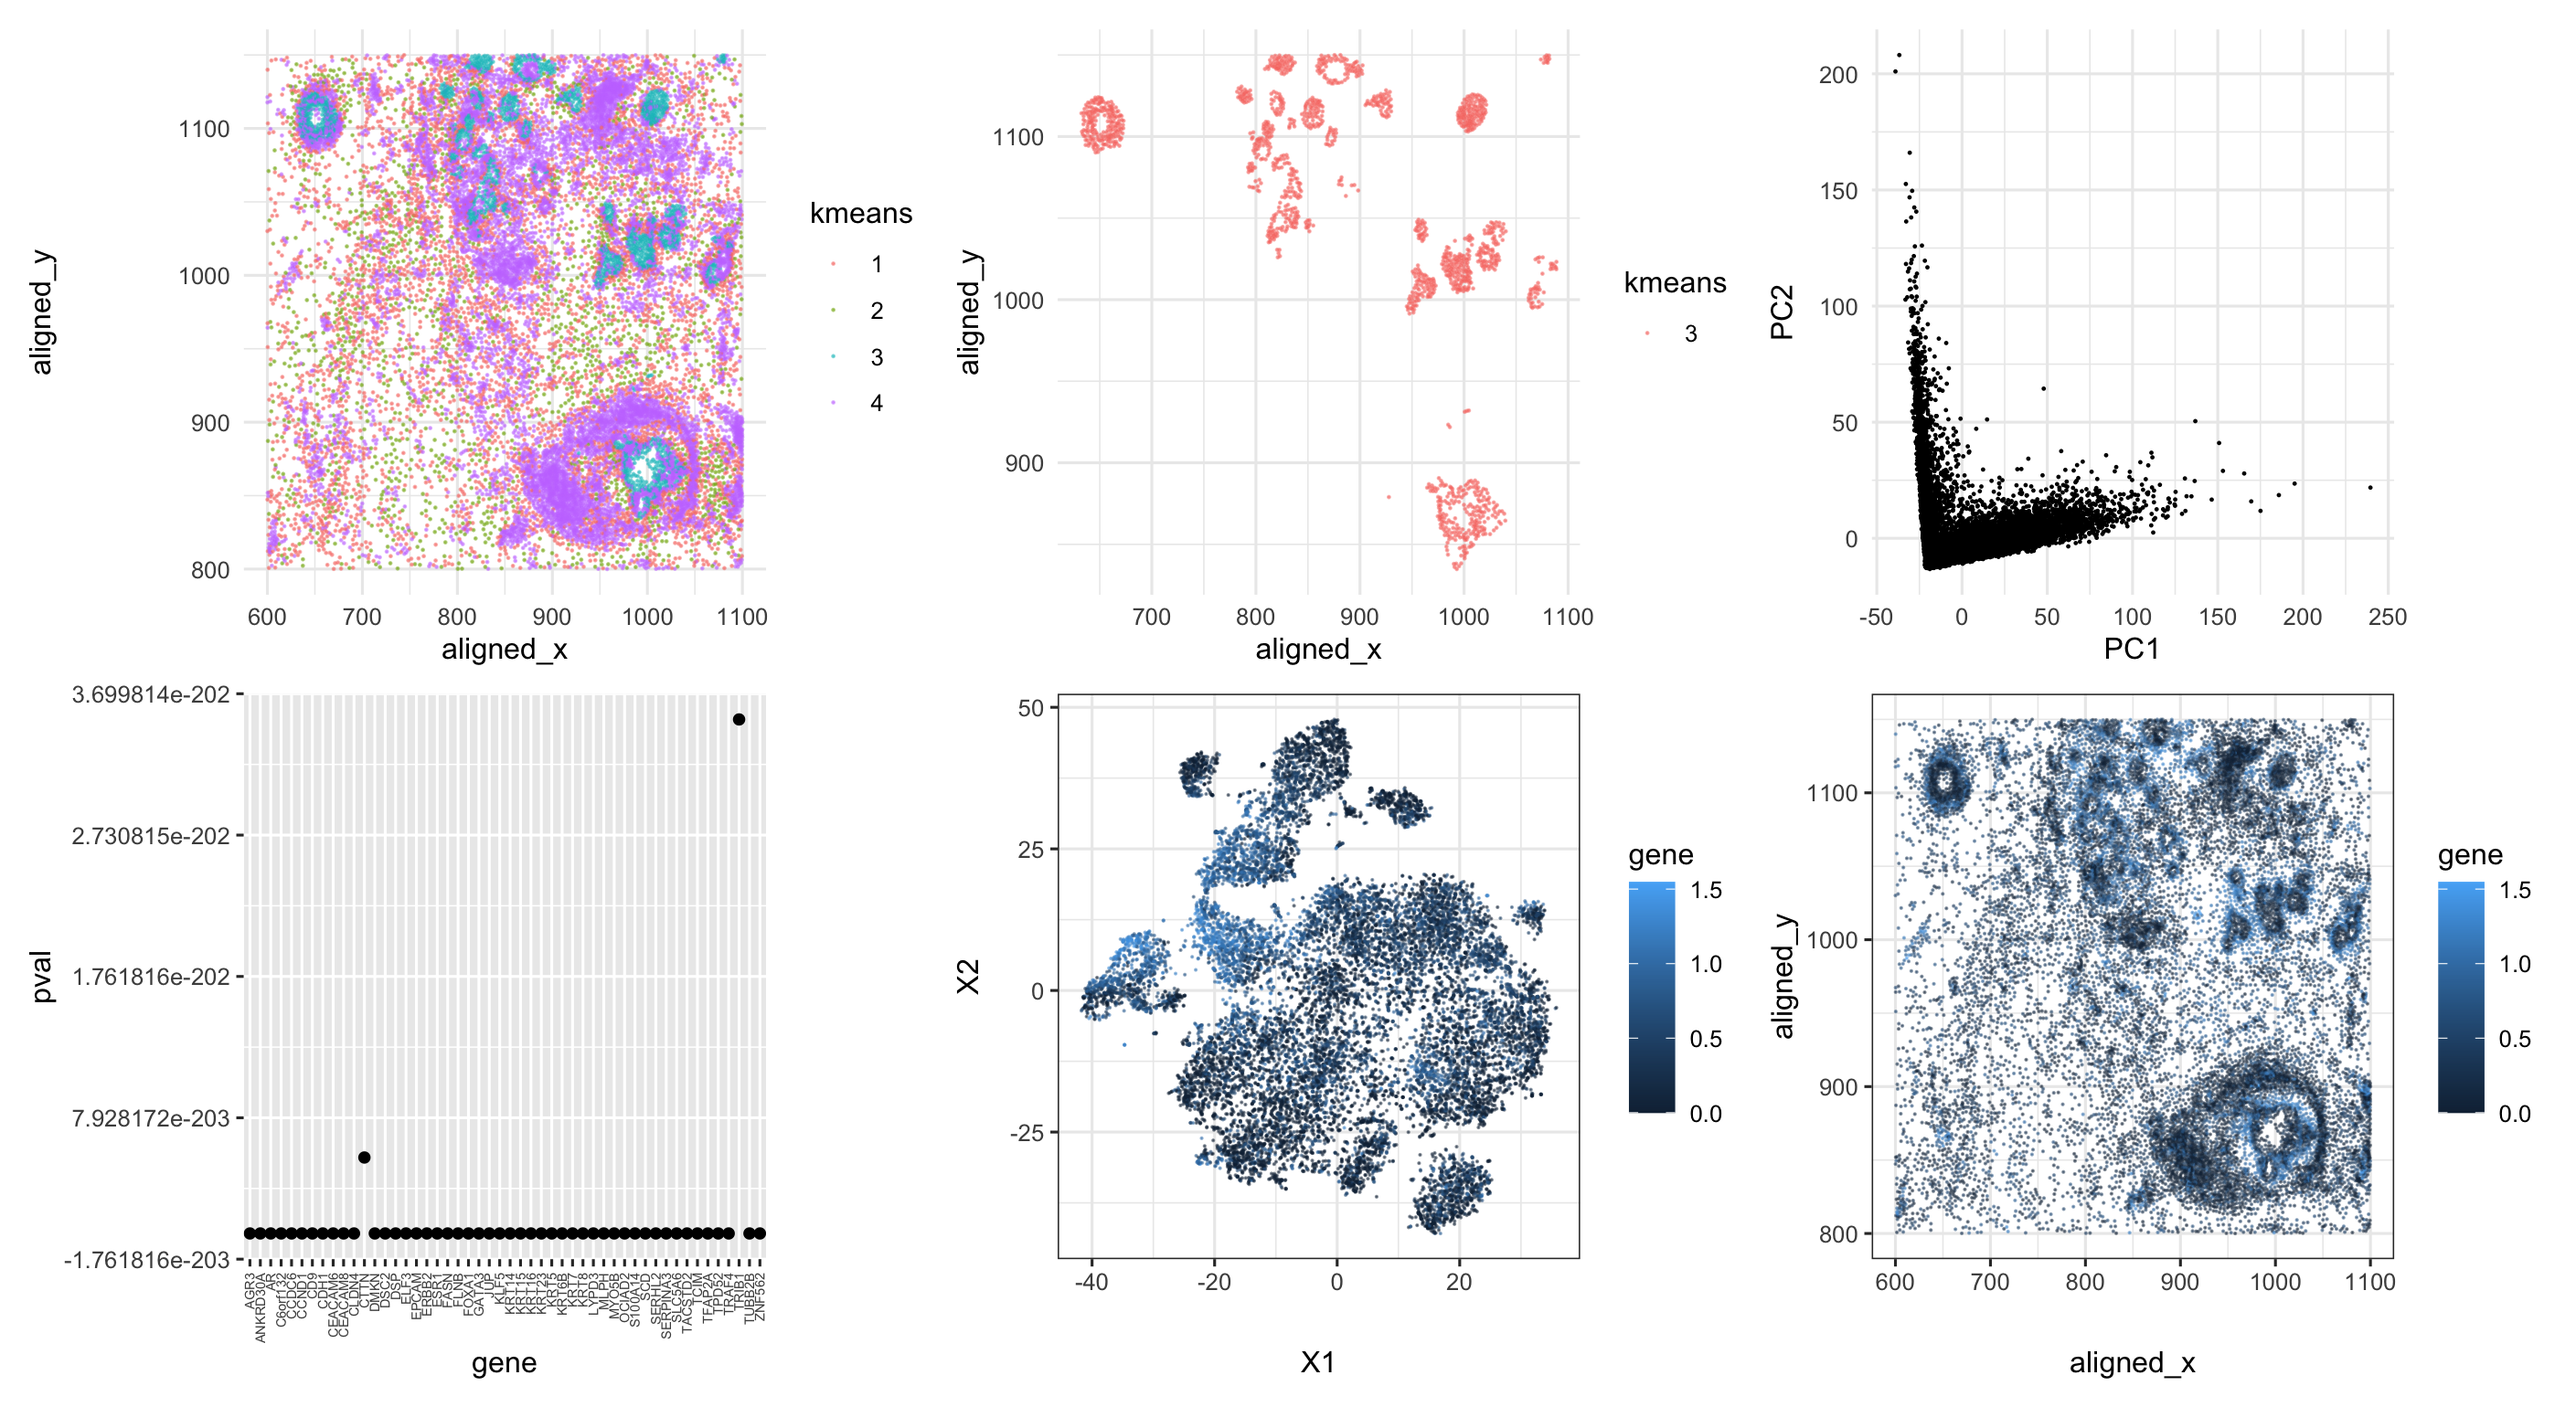
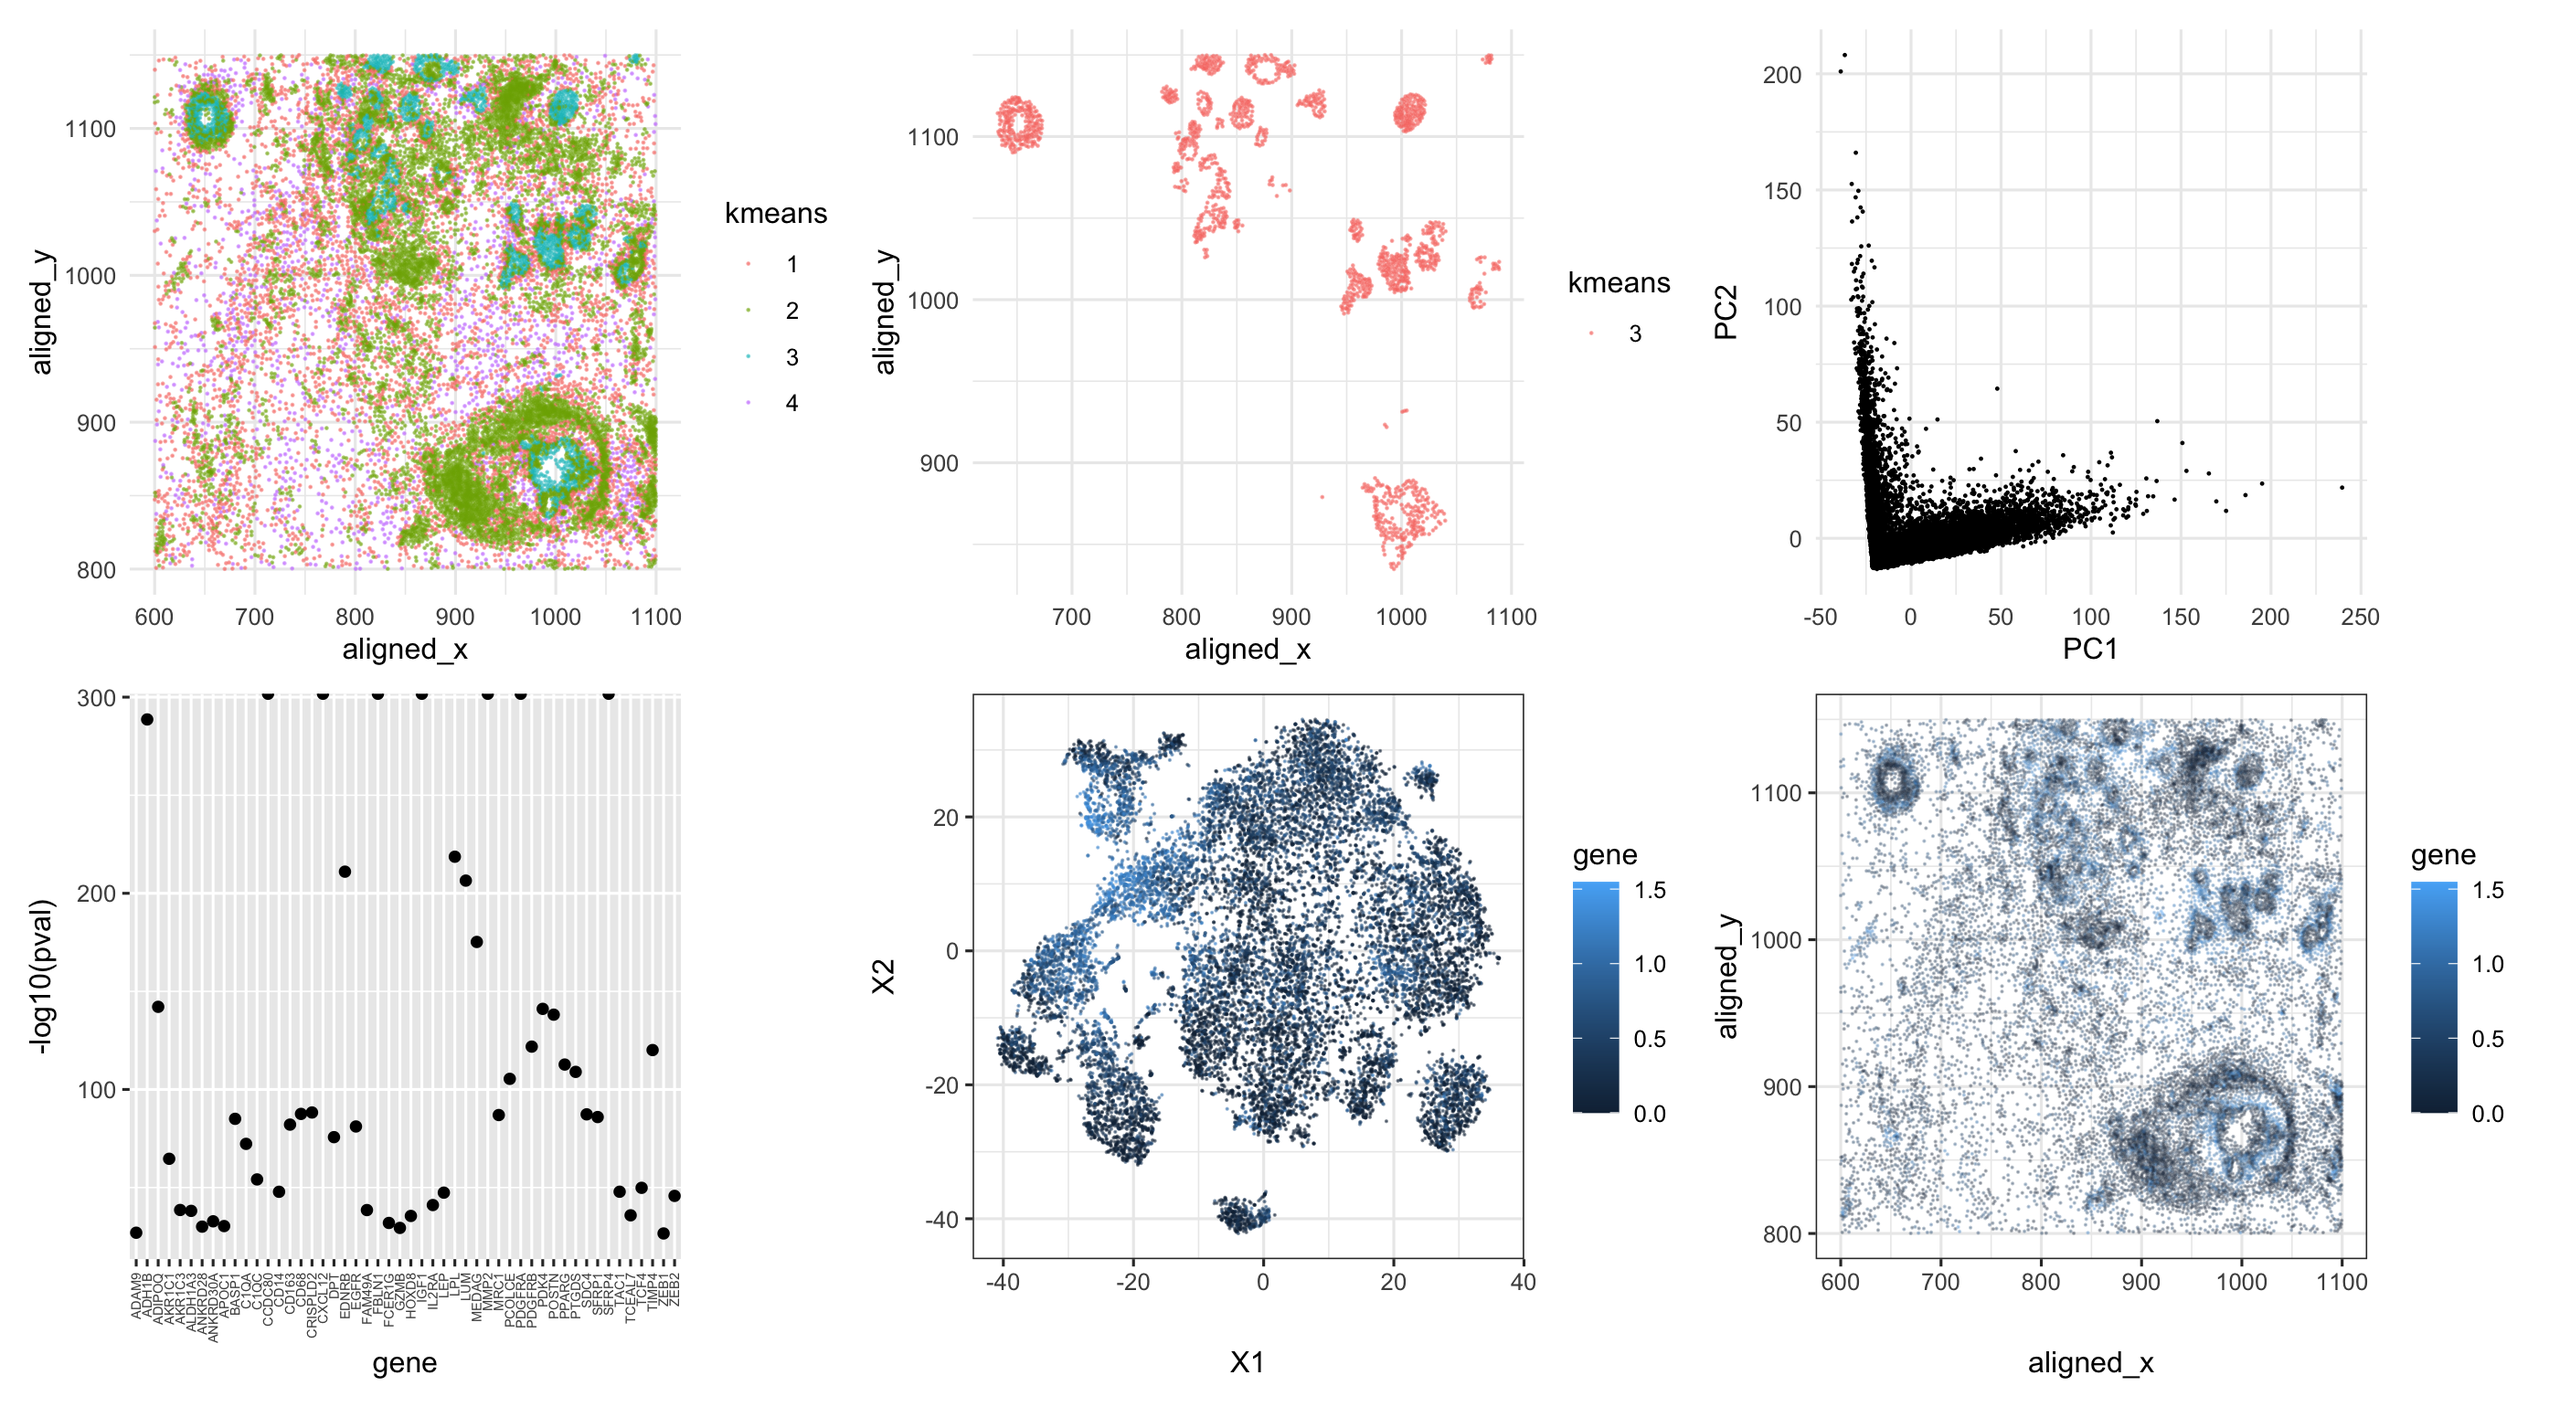
update hw4

diff --git a/_posts/2024-02-14-yyan67.md b/_posts/2024-02-14-yyan67.md
@@ -10,17 +10,16 @@ featured: false
 
 ## Write a description to convince me that your cluster interpretation is correct. Your description may reference papers and content that allowed you to interpret your cell cluster as a particular cell-type. 
 
-The top left panel demonstrates how k-means clusters are distributed spatially in physical space (aligned_y vs. aligned_x). I choose k=4 randomly. The top middle panel only selected the cluster of interest. The top right panel is the PC plot of the selected cell cluster. The principal components are calculated based on all the expression data of each gene. It seems that there could be two sub-clusters in this cluster, one of which tend to have smaller values for PC1 and the other one tend to have smaller values for PC2. 
+The top left panel demonstrates how k-means clusters are distributed spatially in physical space (aligned_y vs. aligned_x). I choose k=4 because the total withinness values doesn't change drastically after k=4. The top middle panel only selected the cluster of interest. The top right panel is the PC plot of the selected cell cluster. The principal components are calculated based on all the expression data of each gene. It seems that there could be two sub-clusters in this cluster, one of which tend to have smaller values for PC1 and the other one tend to have smaller values for PC2. 
 
-We have also plotted the p-values for the top 50 genes with most significant differentially expression level compared with cells in other clusters (see bottom left panel where they were all very close zero). I just randomly picked one called ACTA2 (usually expressed in smooth muscle cells). I plotted all cells in t-SNE embedding space generated by normalized gene expression of all genes. I labeled the cells with normalized ACTA2 expression. As we can see from the bottom middle panel, there could be certain clusterson the top right corner with lighter blue (i.e., high expression of ACTA2) that are distinct from others with darker colors. However, there were more than just one cluster in t-SNE so there could be subtypes in this cell cluster. The expression of ACTA2 were also demonstrated in physically space (see bottom right panel). The spatial positions of cells with highly expressed ACTA2 overlap in general with the cells in the cluster of interest. 
-
-As a result, based on all the visualizations, I conclude that this one type of cell could be smooth muscle cells with a couple of subtypes. 
+We have also plotted the p-values for the top 50 genes with most significant differentially expression level compared with cells in other clusters (see bottom left panel where they were all very close zero, with a quite large value on the scale of -log10). I just randomly picked one called ACTA2 (usually expressed in smooth muscle cells). I plotted all cells in t-SNE embedding space generated by normalized gene expression of all genes. I labeled the cells with normalized ACTA2 expression. As we can see from the bottom middle panel, there could be certain clusters on the top right corner with lighter blue (i.e., high expression of ACTA2) that are distinct from others with darker colors. However, there were more than just one cluster in t-SNE so there could be subtypes in this cell cluster. The expression of ACTA2 were also demonstrated in physically space (see bottom right panel). The spatial positions of cells with highly expressed ACTA2 overlap in general with the cells in the cluster of interest. As a result, I think that this one type of cell could be smooth muscle cells with a couple of subtypes (most likely to be two based on the PC plot). 
 
 ## Please share the code you used to reproduce this data visualization.
 ```{r}
 data <- read.csv('pikachu.csv.gz', row.names = 1)
 library(ggplot2)
 library(patchwork)
+library(Rtsne)
 
 pos <- data[, 4:5]
 total_count <- rowSums(data[ ,6:ncol(data)], na.rm=TRUE)
@@ -30,6 +29,15 @@ df <- data.frame(data, kmeans=as.factor(km$cluster))
 head(df)
 p0 = ggplot(df) + geom_point(aes(x = aligned_x, y=aligned_y, col=kmeans), 
              size=0.1, alpha=0.5) + theme_minimal()
+
+# test for total withinness change with k
+tot.witness = c()
+for (i in 1:10){
+  km <- kmeans(gexp, centers=i)
+  tot.witness = append(tot.witness, km$tot.withinss)
+}
+plot(x=1:10, y=tot.witness, xlab = 'K', ylab='total witness')
+p0
 
 # cluster of interest: 3
 df1 = df[df$kmean == 3,]
@@ -49,8 +57,7 @@ results <- sapply(colnames(gexpnorm), function(g) {
               alternative = "greater")$p.val})
 pval = data.frame(pval = sort(results, decreasing=FALSE)[1:50])
 pval$gene = row.names(pval)
-par(mar=c(1,1,1,1))
-p3 = ggplot(pval) + geom_point(aes(x=gene, y=pval)) +
+p3 = ggplot(pval) + geom_point(aes(x=gene, y=-log10(pval))) +
   theme(axis.text.x = element_text(angle = 90, vjust = 0.5, hjust=1, size=5))
 
 pcs <- prcomp(gexpnorm)
@@ -60,9 +67,10 @@ p4 = ggplot(data.frame(emb, gene = gexpnorm[,'ACTA2'])) +
   theme_bw()
 
 p5 = ggplot(data.frame(data[, 4:5], gene = gexpnorm[,'ACTA2'])) + 
-  geom_point(aes(x=aligned_x, y=aligned_y, col=gene), size=0.01, alpha=0.5) + 
+  geom_point(aes(x=aligned_x, y=aligned_y, col=gene), size=0.01, alpha=0.3) + 
   theme_bw()
 
+par(mar=c(1,1,1,1))
 p0 + p1 + p2 + p3 + p4 + p5
 ``` 
 
